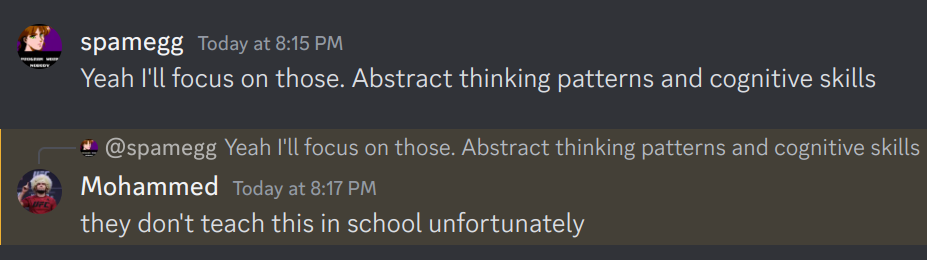
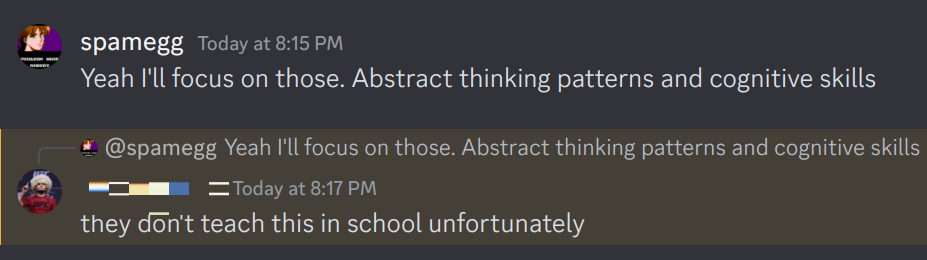
added implicit conversion image
- also blurred names in 2 images

Changed region(s): [[0.0906, 0.6769, 0.2416, 0.7692], [0.151, 0.8, 0.1812, 0.8308]]

diff --git a/implicit.md b/implicit.md
@@ -19,6 +19,8 @@
 
 ## Implicit conversions
 
+![implicit-conversion](images/implicitConversion.png)
+
 - Converting one idea / concept / assumption to another, without being aware of it.
 - Found in math, programming, and a natural function of our brains.
   - which makes it an interesting example of meta-thinking!
